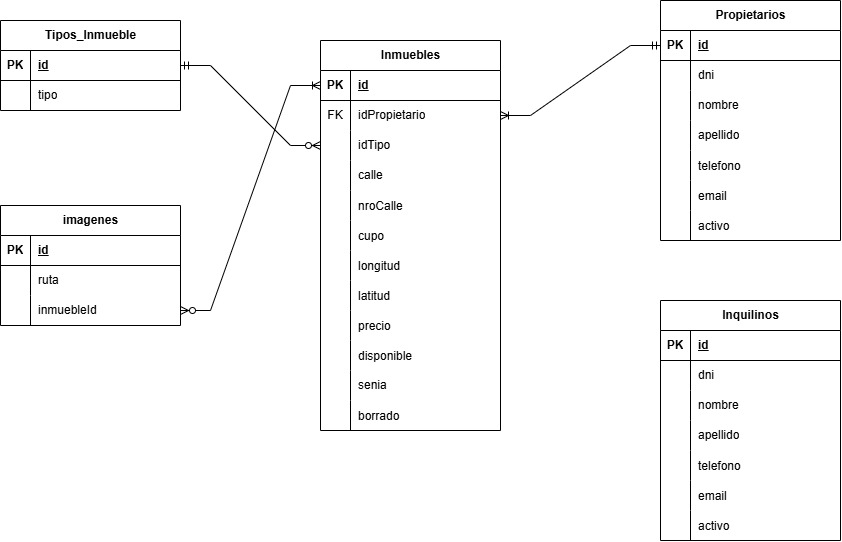
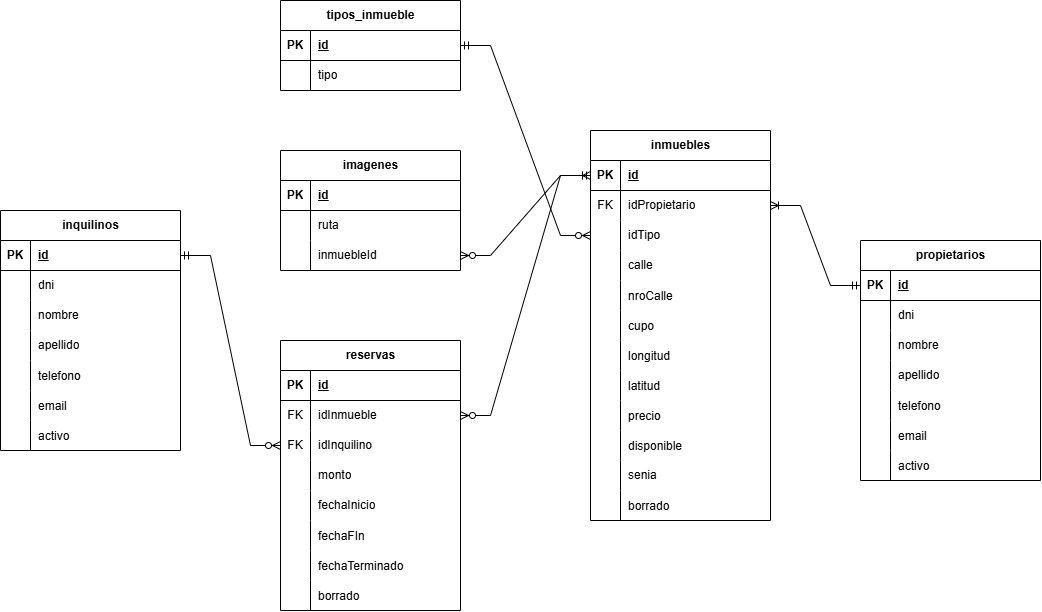
DER, DB y README actualizados
Encabezados en los listados
Tamaños fijos de las imagenes
Nueva fuente para el menu de navegación
Tamaño de paginacion dinamico en las tablas

diff --git a/wwwroot/css/styles.css b/wwwroot/css/styles.css
@@ -53,3 +53,18 @@ input[type="date"]::-webkit-calendar-picker-indicator {
     width: 100%;            /* ocupa todo el ancho */
     object-fit: cover;      /* recorta proporcionalmente */
 }
+
+.fixed-carousel-img {
+    height: 500px;       /* altura fija para todas las imágenes */
+    object-fit: cover;   /* recorta proporcionalmente */
+}
+
+.active-link {
+    background-color: #c3e3fa !important;
+    color: black !important;
+    font-weight: bold;
+}
+
+.nav-font {
+    font-family: 'Lucida Sans', 'Lucida Sans Regular', 'Lucida Grande', 'Lucida Sans Unicode', Geneva, Verdana, sans-serif;
+}

diff --git a/Controllers/InmuebleController.cs b/Controllers/InmuebleController.cs
@@ -69,7 +69,7 @@ public class InmuebleController : ControladorBase
         entoces con este Bind le digo al framework que tenga en cuenta eso para poder mapear los campos del formulario correctamente
     */
     [HttpPost]
-    public async Task<IActionResult> Guardar([Bind(Prefix = nameof(InmuebleFormData))] [FromForm] InmuebleFormData inmuebleForm, [FromServices] IFileService fileService)
+    public async Task<IActionResult> Guardar([Bind(Prefix = nameof(InmuebleFormData))] [FromForm] InmuebleFormData inmuebleForm)
     {
         if (ModelState.IsValid)
         {
@@ -96,7 +96,7 @@ public class InmuebleController : ControladorBase
     }
 
     [HttpPost]
-    public async Task<IActionResult> Actualizar([Bind(Prefix = nameof(InmuebleFormData))] [FromForm] InmuebleFormData inmuebleForm, [FromServices] IFileService fileService)
+    public async Task<IActionResult> Actualizar([Bind(Prefix = nameof(InmuebleFormData))] [FromForm] InmuebleFormData inmuebleForm)
     {
         if (ModelState.IsValid)
         {
@@ -345,9 +345,11 @@ public class InmuebleController : ControladorBase
             return BadRequest();
         
         Inmueble? inmueble = await _repo.ObtenerPorIdAsync(id);
-        IList<string> fotos = [];
+        List<Imagen> imagenes = await _repoImagenes.ListarPorInmuebleAsync(id, 100, 1);
+        List<string> fotos = [.. imagenes.Select(i => i.Ruta!)];
         
-        return View(new DetalleInmuebleViewModel(inmueble, fotos));
+        // return View(new DetalleInmuebleViewModel(inmueble, fotos));
+        return View(new DetalleInmuebleViewModel(inmueble, imagenes));
     }
 
     [HttpGet]

diff --git a/Models/ViewModels/DetalleInmuebleViewModel.cs b/Models/ViewModels/DetalleInmuebleViewModel.cs
@@ -4,10 +4,17 @@ public class DetalleInmuebleViewModel
 {
     public Inmueble? Inmueble { get; set; }
     public IList<string> Fotos { get; set; } = [];
+    public List<Imagen> Imagenes { get; set; } = [];
 
     public DetalleInmuebleViewModel(Inmueble? inmueble, IList<string> fotos)
     {
         Inmueble = inmueble;
         Fotos = fotos;
+    }
+
+    public DetalleInmuebleViewModel(Inmueble? inmueble, List<Imagen> imagenes)
+    {
+        Inmueble = inmueble;
+        Imagenes = imagenes;
     }
 }

diff --git a/Controllers/TipoInmuebleController.cs b/Controllers/TipoInmuebleController.cs
@@ -22,6 +22,7 @@ public class TipoInmuebleController : ControladorBase
         int cantidadTiposInmueble = await _repo.ContarTiposInmueble();
 
         ViewBag.cantPag = Math.Ceiling((decimal)cantidadTiposInmueble / cantidadPaginado);
+        ViewBag.cantidadPaginado = cantidadPaginado;
         ViewBag.paginaSiguiente = pagina + 1;
         ViewBag.paginaAnterior = pagina - 1;
         ViewBag.linkActivo = "inmuebles";

diff --git a/Controllers/PropietarioController.cs b/Controllers/PropietarioController.cs
@@ -22,6 +22,7 @@ public class PropietarioController : ControladorBase
         int cantidadPropietarios = await _repo.ContarPropietarios();
 
         ViewBag.cantPag = Math.Ceiling((decimal)cantidadPropietarios / cantidadPaginado);
+        ViewBag.cantidadPaginado = cantidadPaginado;
         ViewBag.paginaSiguiente = pagina + 1;
         ViewBag.paginaAnterior = pagina - 1;
         ViewBag.linkActivo = "propietarios";

diff --git a/Controllers/InquilinoController.cs b/Controllers/InquilinoController.cs
@@ -22,6 +22,7 @@ public class InquilinoController : ControladorBase
         int cantidadInquilinos = await _repo.ContarInquilinos();
 
         ViewBag.cantPag = Math.Ceiling((decimal)cantidadInquilinos / cantidadPaginado);
+        ViewBag.cantidadPaginado = cantidadPaginado;
         ViewBag.paginaSiguiente = pagina + 1;
         ViewBag.paginaAnterior = pagina - 1;
         ViewBag.linkActivo = "inquilinos";

diff --git a/Controllers/ReservaController.cs b/Controllers/ReservaController.cs
@@ -29,6 +29,7 @@ public class ReservaController : ControladorBase
         int cantidadReservas = await _repo.ContarReservas(idInm);
 
         ViewBag.cantPag = Math.Ceiling((decimal)cantidadReservas / cantidadPaginado);
+        ViewBag.cantidadPaginado = cantidadPaginado;
         ViewBag.paginaSiguiente = pagina + 1;
         ViewBag.paginaAnterior = pagina - 1;
         ViewBag.idInm = idInm;

diff --git a/README.md b/README.md
@@ -32,7 +32,7 @@ El archivo "dbinmobiliaria.sql" contiene la creación de la BD en MySql 8.0.43 y
 7. Presionar el boton **Start Import**.
 8. En el panel izquierdo, ir a la pestaña **Schemas**
 9. Click derecho en cualquier lugar del panel y seleccionar **Refresh All**
-10. Verificar que aparezca la base `dbinmobiliaria` con las tablas `propietarios` e `inquilinos`.
+10. Verificar que aparezca la base `dbinmobiliaria` con las tablas `propietarios`, `inquilinos`, `inmuebles`, `tipos_inmueble`, `imagenes` y `reservas`.
 
 #### Opción 2: importar con phpMyAdmin
 
@@ -42,4 +42,38 @@ El archivo "dbinmobiliaria.sql" contiene la creación de la BD en MySql 8.0.43 y
 4. Seleccionar la pestaña **Importar**.
 5. Elegir el archivo `dbinmobiliaria.sql` del proyecto.
 6. Mantener el formato SQL y presionar **Continuar**.
-7. Verificar que aparezca la base `dbinmobiliaria` con las tablas `propietarios` e `inquilinos`.
+7. Verificar que aparezca la base `dbinmobiliaria` con las tablas `propietarios`, `inquilinos`, `inmuebles`, `tipos_inmueble`, `imagenes` y `reservas`.
+
+# 🚀 Guía para ejecutar el proyecto
+## 1. Clonar el repositorio
+```bash
+git clone https://github.com/Manug95/inmobiliaria2026.git
+cd inmobiliaria2026
+```
+## 2. Revisar configuración
+En el archivo `appsettings.json` en la raiz del proyecto, asegurarse de tener su usuario y contraseña de su gestor de base de datos en `ConnectionStrings:MySql`.
+## 3. Restaurar dependencias, compilar y ejecutar
+```bash
+dotnet restore
+dotnet build
+dotnet run
+```
+
+Abrir en el navegador en http://localhost:5140
+
+## Advertencia
+Ejecutar la app con `dotnet run` porque al ejecutar con `dotnet watch` crashea al cargar las imagenes de los inmuebles
+
+### 🏠 Realizar una Reserva
+
+#### Opción 1
+1. En el menú de navegacion Inmuebles -> Reservar Inmueble
+2. Rellenar el fomulario con los campo requeridos y deseados
+3. Si se encontro el inmueble deseado, clickear el icono de Reservar Inmueble
+4. Rellenar el formulario de la reserva
+
+#### Opción 2
+1. En el menú de navegacion Inquilinos
+2. Buscar el Inquilino que quiere hacer la reserva
+3. Clickear el icono de Reservar Inmueble que tiene cada inquilino
+4. Rellenar el formulario de la reserva
